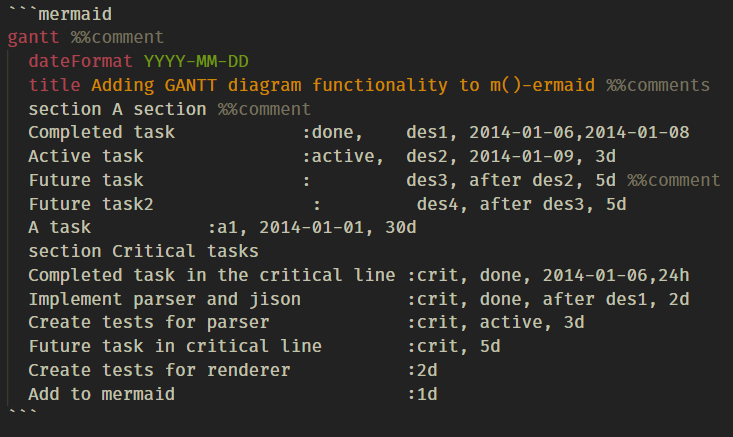
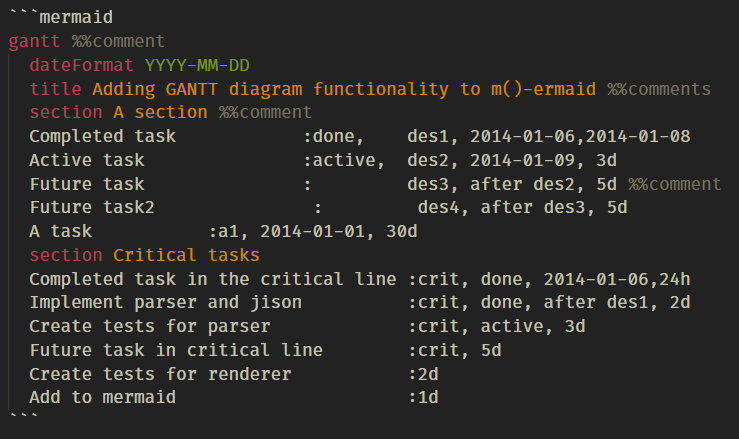
docs: update gantt with section support

Changed region(s): [[0.0, 0.0, 0.9905, 0.9519], [0.3902, 0.2677, 0.9905, 0.5057], [0.3902, 0.4165, 0.4202, 0.4462]]

diff --git a/README.md b/README.md
@@ -140,7 +140,7 @@ gantt %%comment
 - [x] %% Comments
 - [x] dateFormat
 - [x] title
-- [ ] section
+- [x] section
 - [ ] task
 
 ## Initial Idea
